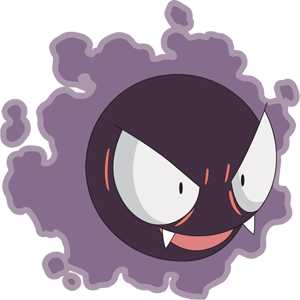
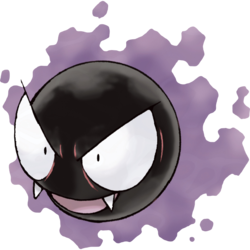
changed images and color
changed the images for gastly and raichu. the images weren't png.

diff --git a/Gengarcon.html b/Gengarcon.html
@@ -52,7 +52,7 @@
             Gengar has the ability to hide in shadows, no matter the size.
             Gengar is mischievous and has the ability to possess people and Pokemon as well.
             Enjoys taking the shape of peoples shadows and laughing at how frightened they are.</p>
-            <img src="gengarimg.jpg"  alt="stage 1 gen 1">
+            <img src="Gastly.png"  alt="stage 1 gen 1">
             <img src="haunter.png"  alt="stage 2 gen 1">
             <img src="gengar.png"  alt="stage 3 gen 1">
     </article>

diff --git a/pikcon.html b/pikcon.html
@@ -52,7 +52,7 @@
      Pickachu is a rodent that has the ability to send off electric discharges of numerous rates.
      Pickachu also charges while asleep. A group/pack of pikachu’s can have the ability to cause a thunderstorm.</p>
     <img src="pikachuimg.png" height="200" width="200" alt="stage 1 generation 1">
-    <img src="raichu.jpeg" height="200" width="200" alt="stage 2 genration 1">
+    <img src="Raichu.png" height="200" width="200" alt="stage 2 genration 1">
 </article>
 
     </body>

diff --git a/layout-gengarcon.css b/layout-gengarcon.css
@@ -28,3 +28,6 @@ aside.right-side-article {
     float: right;
     display: block;
 }
+html{
+    background: grey
+}
